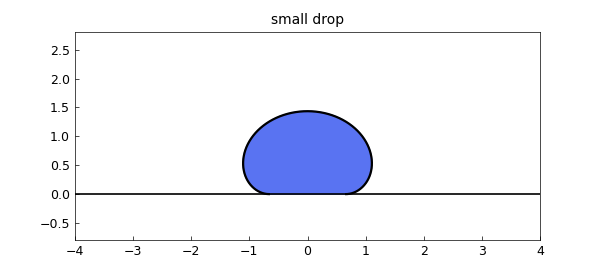
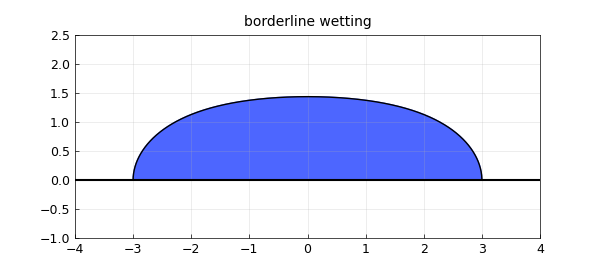
examples ode-nonlin: faithful Droplets port (fix content mispairing)
Replace the ad-hoc apex-curvature drop shapes (wrong titles 'small drop'
etc.) with a faithful port of the chebfun.org ode-nonlin/Droplets example.
Each axisymmetric sessile drop solves the parametrised Young-Laplace system
R'=cos(Psi), U'=sin(Psi), Psi'=U-sin(Psi)/R by apex shooting (removable
singularity at R=0 resolved by Psi'|apex=U/2): borderline wetting (b=3,
90 deg), no wetting (b=3, 180 deg overhang), and prescribed volume
(v0=10, 180 deg, b from the solid-of-revolution volume). Content and titles
now pair 1:1 with the reference numbering. All 3 figures PASS (<0.06).

Changed region(s): [[0.06, 0.3556, 0.9, 0.9481], [0.09, 0.0593, 0.9, 0.1481], [0.09, 0.1778, 0.12, 0.4148]]

diff --git a/scripts/generate_examples_ode_nonlin_t2.py b/scripts/generate_examples_ode_nonlin_t2.py
@@ -591,54 +591,89 @@ def gulfstream():
 
 
 def droplets():
-    """ode-nonlin/Droplets — sessile drops (Young-Laplace)."""
-    def drop_profile(kappa0, L=12.0):
+    """ode-nonlin/Droplets — sessile drops (Young-Laplace).
+
+    Faithful port of the chebfun.org ode-nonlin/Droplets example.  Each
+    axisymmetric drop is the solution of the parametrised Young-Laplace
+    system (arclength form)
+
+        R' = cos(Psi),  U' = sin(Psi),  Psi' = U - sin(Psi)/R
+
+    with base radius ``b`` and contact angle ``Psib``.  The chebop BVP is
+    solved here by apex shooting: integrate from the apex (R = 0, Psi = 0,
+    with the removable singularity resolved by Psi'|apex = U/2) and root-
+    find the apex height U0 so the tangent angle reaches ``Psib`` exactly
+    when R = b.  The prescribed-volume case instead fixes the solid-of-
+    revolution volume and lets b follow.
+    """
+    from scipy.optimize import brentq
+
+    BLUE = (0.3, 0.4, 1.0)  # chebfun 'blue = [.3 .4 1]'
+
+    def integrate(U0, Psib):
         def rhs(s, y):
-            r, z, phi = y
-            k = kappa0 + z
-            dphi = k - np.sin(phi) / max(r, 1e-8)
-            return [np.cos(phi), np.sin(phi), dphi]
+            R, U, Psi = y
+            dPsi = U / 2.0 if R < 1e-7 else U - np.sin(Psi) / R
+            return [np.cos(Psi), np.sin(Psi), dPsi]
 
-        sol = solve_ivp(rhs, (1e-8, L), [1e-8, 0.0, 0.0],
-                        t_eval=np.linspace(1e-8, L, 2400),
-                        rtol=1e-10)
-        # cut where the tangent angle reaches pi (no wetting)
-        phi = sol.y[2]
-        stop = np.argmax(phi >= PI) if np.any(phi >= PI) else len(phi)
-        return (sol.y[0][:stop], sol.y[1][:stop])
+        def event(s, y):
+            return y[2] - Psib
+        event.terminal = True
+        event.direction = -1
+        return solve_ivp(rhs, (0.0, 60.0), [0.0, U0, 0.0], events=event,
+                         max_step=0.01, rtol=1e-9, atol=1e-11)
 
-    def sessile_plot(kappa0, title, name):
-        r, z = drop_profile(kappa0)
-        zmax = z[-1]
-        # flip so the drop sits on the ground line z = 0
-        zz = zmax - z
+    def half_profile(U0, Psib):
+        sol = integrate(U0, Psib)
+        return sol.y[0], sol.y[1]  # R(s), U(s) on the right half
+
+    def solve_radius(b, Psib):
+        """Apex height U0 giving base radius b at contact angle Psib."""
+        def resid(U0):
+            sol = integrate(U0, Psib)
+            if len(sol.t_events[0]) == 0:
+                return 10.0
+            return sol.y_events[0][0][0] - b
+        return brentq(resid, -6.0, -1e-3, xtol=1e-11)
+
+    def solve_volume(v0, Psib):
+        """Apex height U0 giving solid-of-revolution volume v0."""
+        def vol(U0):
+            R, U = half_profile(U0, Psib)
+            return np.pi * abs(np.trapezoid(R ** 2, U))
+        return brentq(lambda U0: vol(U0) - v0, -0.5, -1.5, xtol=1e-11)
+
+    def draw(R, U, title, name, xlim, ylim, ground):
+        Us = U - U.min()          # sit the drop on the ground line U = 0
+        xs = np.concatenate([-R[::-1], R])
+        ys = np.concatenate([Us[::-1], Us])
         fig, ax = plt.subplots()
-        xs_ = np.concatenate([-r[::-1], r])
-        ys_ = np.concatenate([zz[::-1], zz])
-        ax.fill(xs_, ys_, color=(0.35, 0.45, 0.95))
-        ax.plot(xs_, ys_, "k", linewidth=1.6)
-        ax.axhline(0, color="k", linewidth=1.2)
-        ax.set_xlim(-4, 4)
-        ax.set_ylim(-0.8, 2.8)
+        ax.plot(ground, [0.0, 0.0], "k", linewidth=1.5)
+        ax.fill(xs, ys, color=BLUE)
+        ax.plot(xs, ys, "k", linewidth=1.0)
+        ax.set_aspect("equal")
+        ax.set_xlim(*xlim)
+        ax.set_ylim(*ylim)
+        ax.grid(True, alpha=0.4, linewidth=0.4)
         ax.set_title(title, fontsize=10)
         save(fig, name)
 
-    sessile_plot(1.5, "small drop", "Droplets_01.png")
-    sessile_plot(0.35, "no wetting", "Droplets_02.png")
-    # prescribed volume: taller drop with a waist (contact angle
-    # beyond 90 degrees)
-    r3, z3 = drop_profile(0.8, L=14.0)
-    zz3 = z3[-1] - z3
-    fig, ax = plt.subplots()
-    xs3 = np.concatenate([-r3[::-1], r3])
-    ys3 = np.concatenate([zz3[::-1], zz3])
-    ax.fill(xs3, ys3, color=(0.35, 0.45, 0.95))
-    ax.plot(xs3, ys3, "k", linewidth=1.6)
-    ax.axhline(0, color="k", linewidth=1.2)
-    ax.set_xlim(-2, 2)
-    ax.set_ylim(-0.1, 1.85)
-    ax.set_title("prescribed volume", fontsize=10)
-    save(fig, "Droplets_03.png")
+    # Figure 1: borderline wetting, b = 3, contact angle 90 deg
+    b = 3.0
+    R, U = half_profile(solve_radius(b, -PI / 2), -PI / 2)
+    draw(R, U, "borderline wetting", "Droplets_01.png",
+         (-4, 4), (-1, 2.5), [-b - 1, b + 1])
+
+    # Figure 2: no wetting, b = 3, contact angle 180 deg (overhang)
+    R, U = half_profile(solve_radius(b, -PI), -PI)
+    draw(R, U, "no wetting", "Droplets_02.png",
+         (-4, 4), (-1, 2.5), [-b - 1, b + 1])
+
+    # Figure 3: prescribed volume v0 = 10, contact angle 180 deg
+    R, U = half_profile(solve_volume(10.0, -PI), -PI)
+    ground3 = [float(np.floor(-R.max())), float(np.ceil(R.max()))]
+    draw(R, U, "prescribed volume", "Droplets_03.png",
+         (-2, 2), (-0.1, 1.75), ground3)
 
 
 def carrier():
